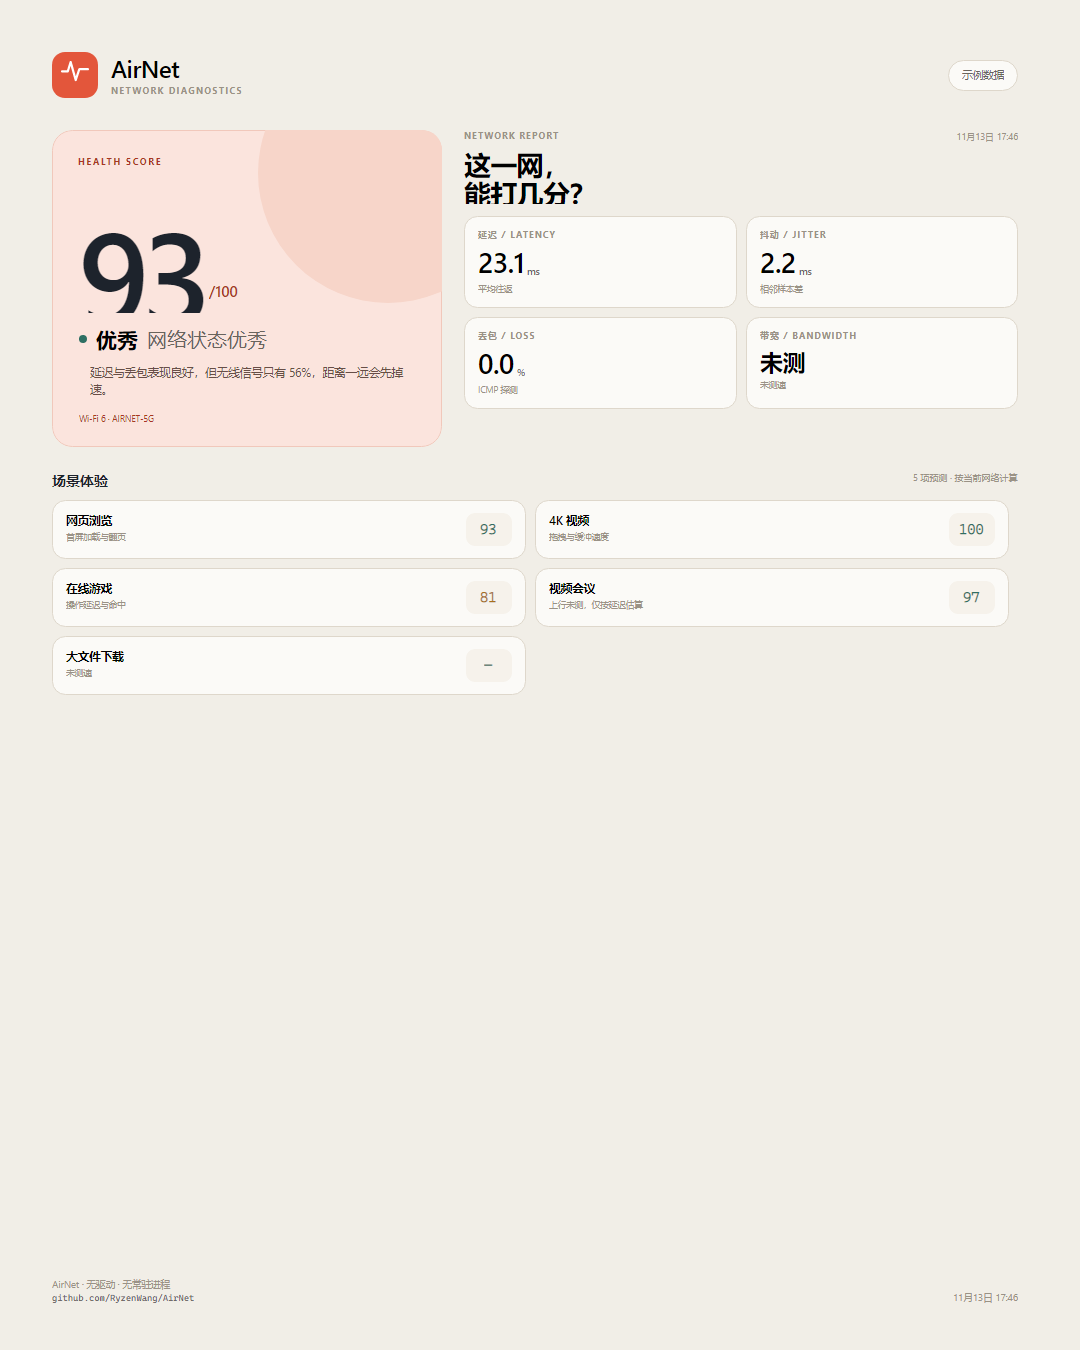
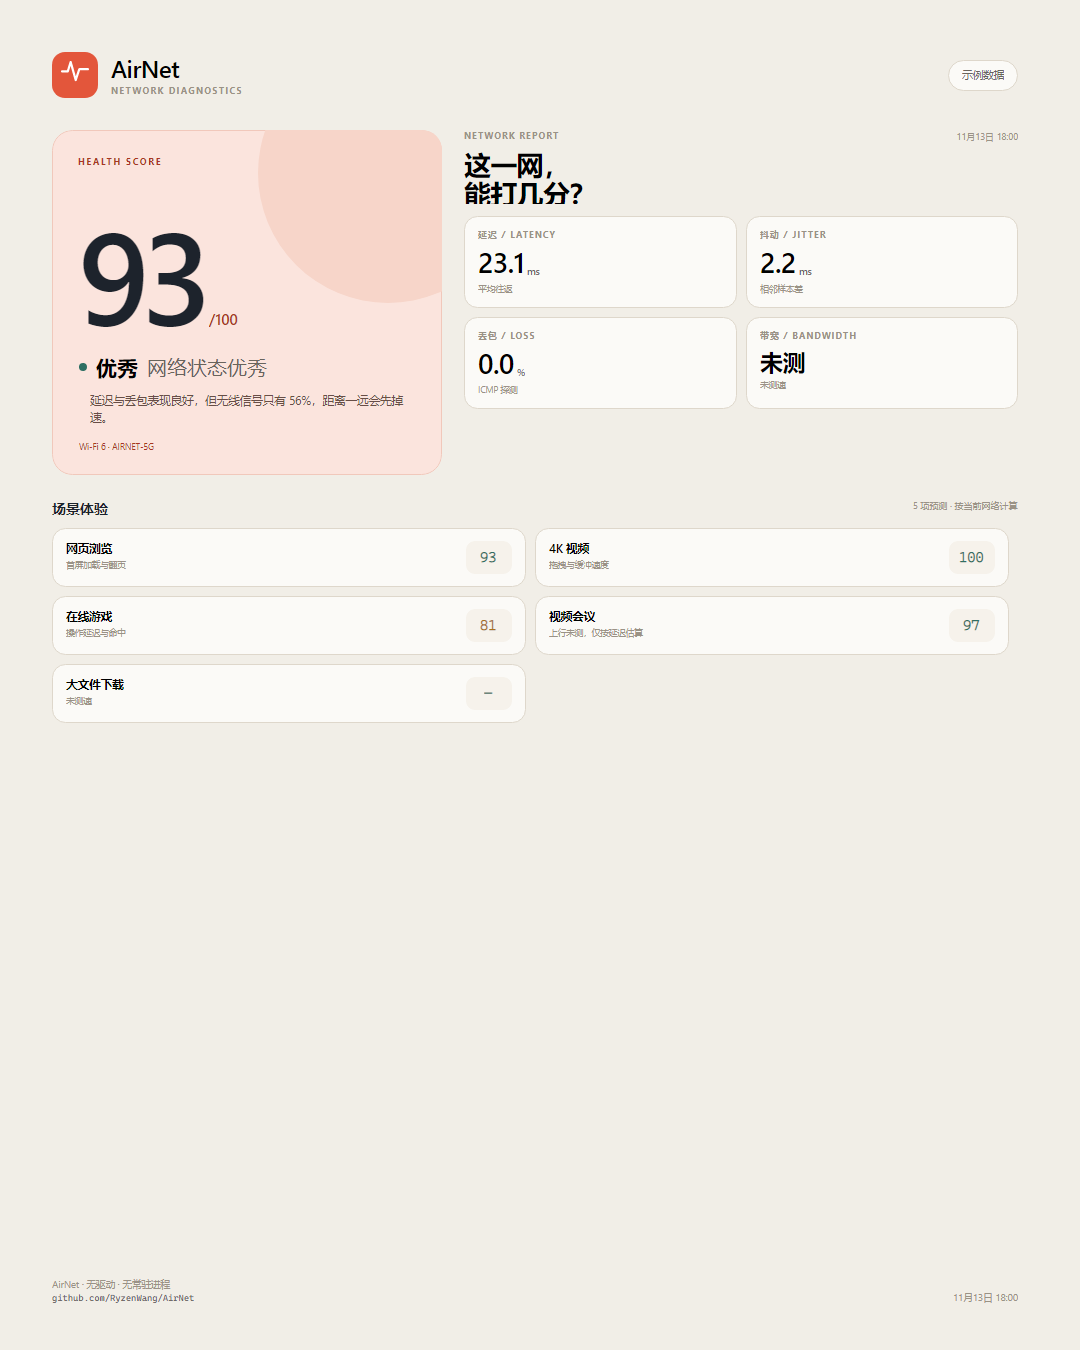
fix(share-card): prevent score clipping and use a borderless window
Increase the score line box and remove the native window chrome from the preview; add a draggable custom header. Regenerate the share-card screenshot.

diff --git a/src/AirNet.App/Views/ShareCardWindow.axaml.cs b/src/AirNet.App/Views/ShareCardWindow.axaml.cs
@@ -1,6 +1,6 @@
 using Avalonia;
 using Avalonia.Controls;
-using Avalonia.Media.Imaging;
+using Avalonia.Input;
 using Avalonia.Platform.Storage;
 
 namespace AirNet.App.Views;
@@ -16,6 +16,15 @@ public partial class ShareCardWindow : Window
     }
 
     private void OnCloseClick(object? sender, Avalonia.Interactivity.RoutedEventArgs e) => Close();
+
+    /// <summary>The window has no native title bar; the header row is the drag handle.</summary>
+    private void OnTitleBarPointerPressed(object? sender, PointerPressedEventArgs e)
+    {
+        if (e.GetCurrentPoint(this).Properties.IsLeftButtonPressed)
+        {
+            BeginMoveDrag(e);
+        }
+    }
 
     private async void OnSaveClick(object? sender, Avalonia.Interactivity.RoutedEventArgs e)
     {
